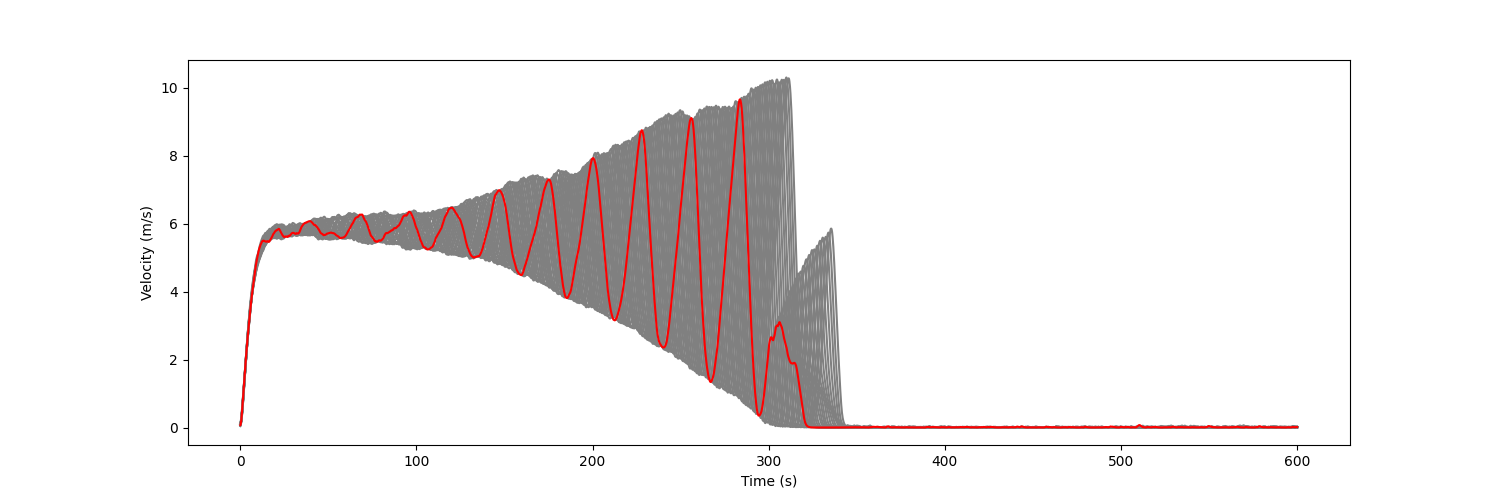
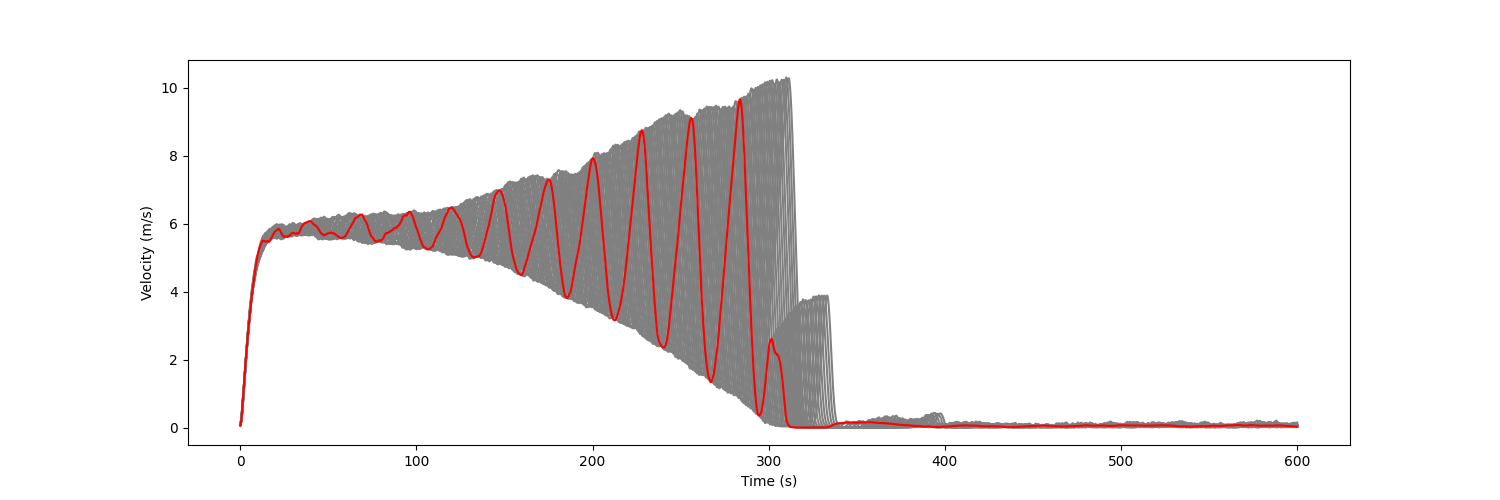
config change

Changed region(s): [[0.5213, 0.48, 0.8893, 0.87]]

diff --git a/main.py b/main.py
@@ -17,7 +17,7 @@ def main():
         scripts.train_dqn.evaluate("/home/vamsi/Documents/GitHub/RingRoad-RL/Models/DQN/DQNTrainer_2022-03-03_19-28-07/DQNTrainer_ringroad-v1_f4621_00000_0_2022-03-03_19-28-08/checkpoint_000488/checkpoint-488")
 
     elif args.type == "eval_ppo":
-        scripts.train_ppo.evaluate("/home/vamsi/Documents/GitHub/RingRoad-RL/Models/PPO/SingleAgent/LSTM/PPOTrainer_2022-04-29_15-17-16/PPOTrainer_ringroad-v1_5aaa1_00000_0_2022-04-29_15-17-16/checkpoint_000250/checkpoint-250")
+        scripts.train_ppo.evaluate("/home/vamsi/Documents/GitHub/RingRoad-RL/Models/PPO/SingleAgent/LSTM/PPOTrainer_2022-04-30_08-52-16/PPOTrainer_ringroad-v1_bc7f5_00000_0_2022-04-30_08-52-16/checkpoint_000250/checkpoint-250")
 
     elif args.type == "eval_idm":
         scripts.evaluate_idm.evaluate()

diff --git a/Ring_Road/envs/ringroad.py b/Ring_Road/envs/ringroad.py
@@ -124,7 +124,7 @@ class RingRoad(gym.Env):
         eta_2 = 4.
         reward = self.state_extractor.get_average_vel()
         # punish accelerations (should lead to reduced stop-and-go waves)
-        eta = 0.5  # 0.25
+        eta = 0.25  # 0.25
         mean_actions = eta * np.mean(np.abs(action))
         accel_threshold = 0
 
